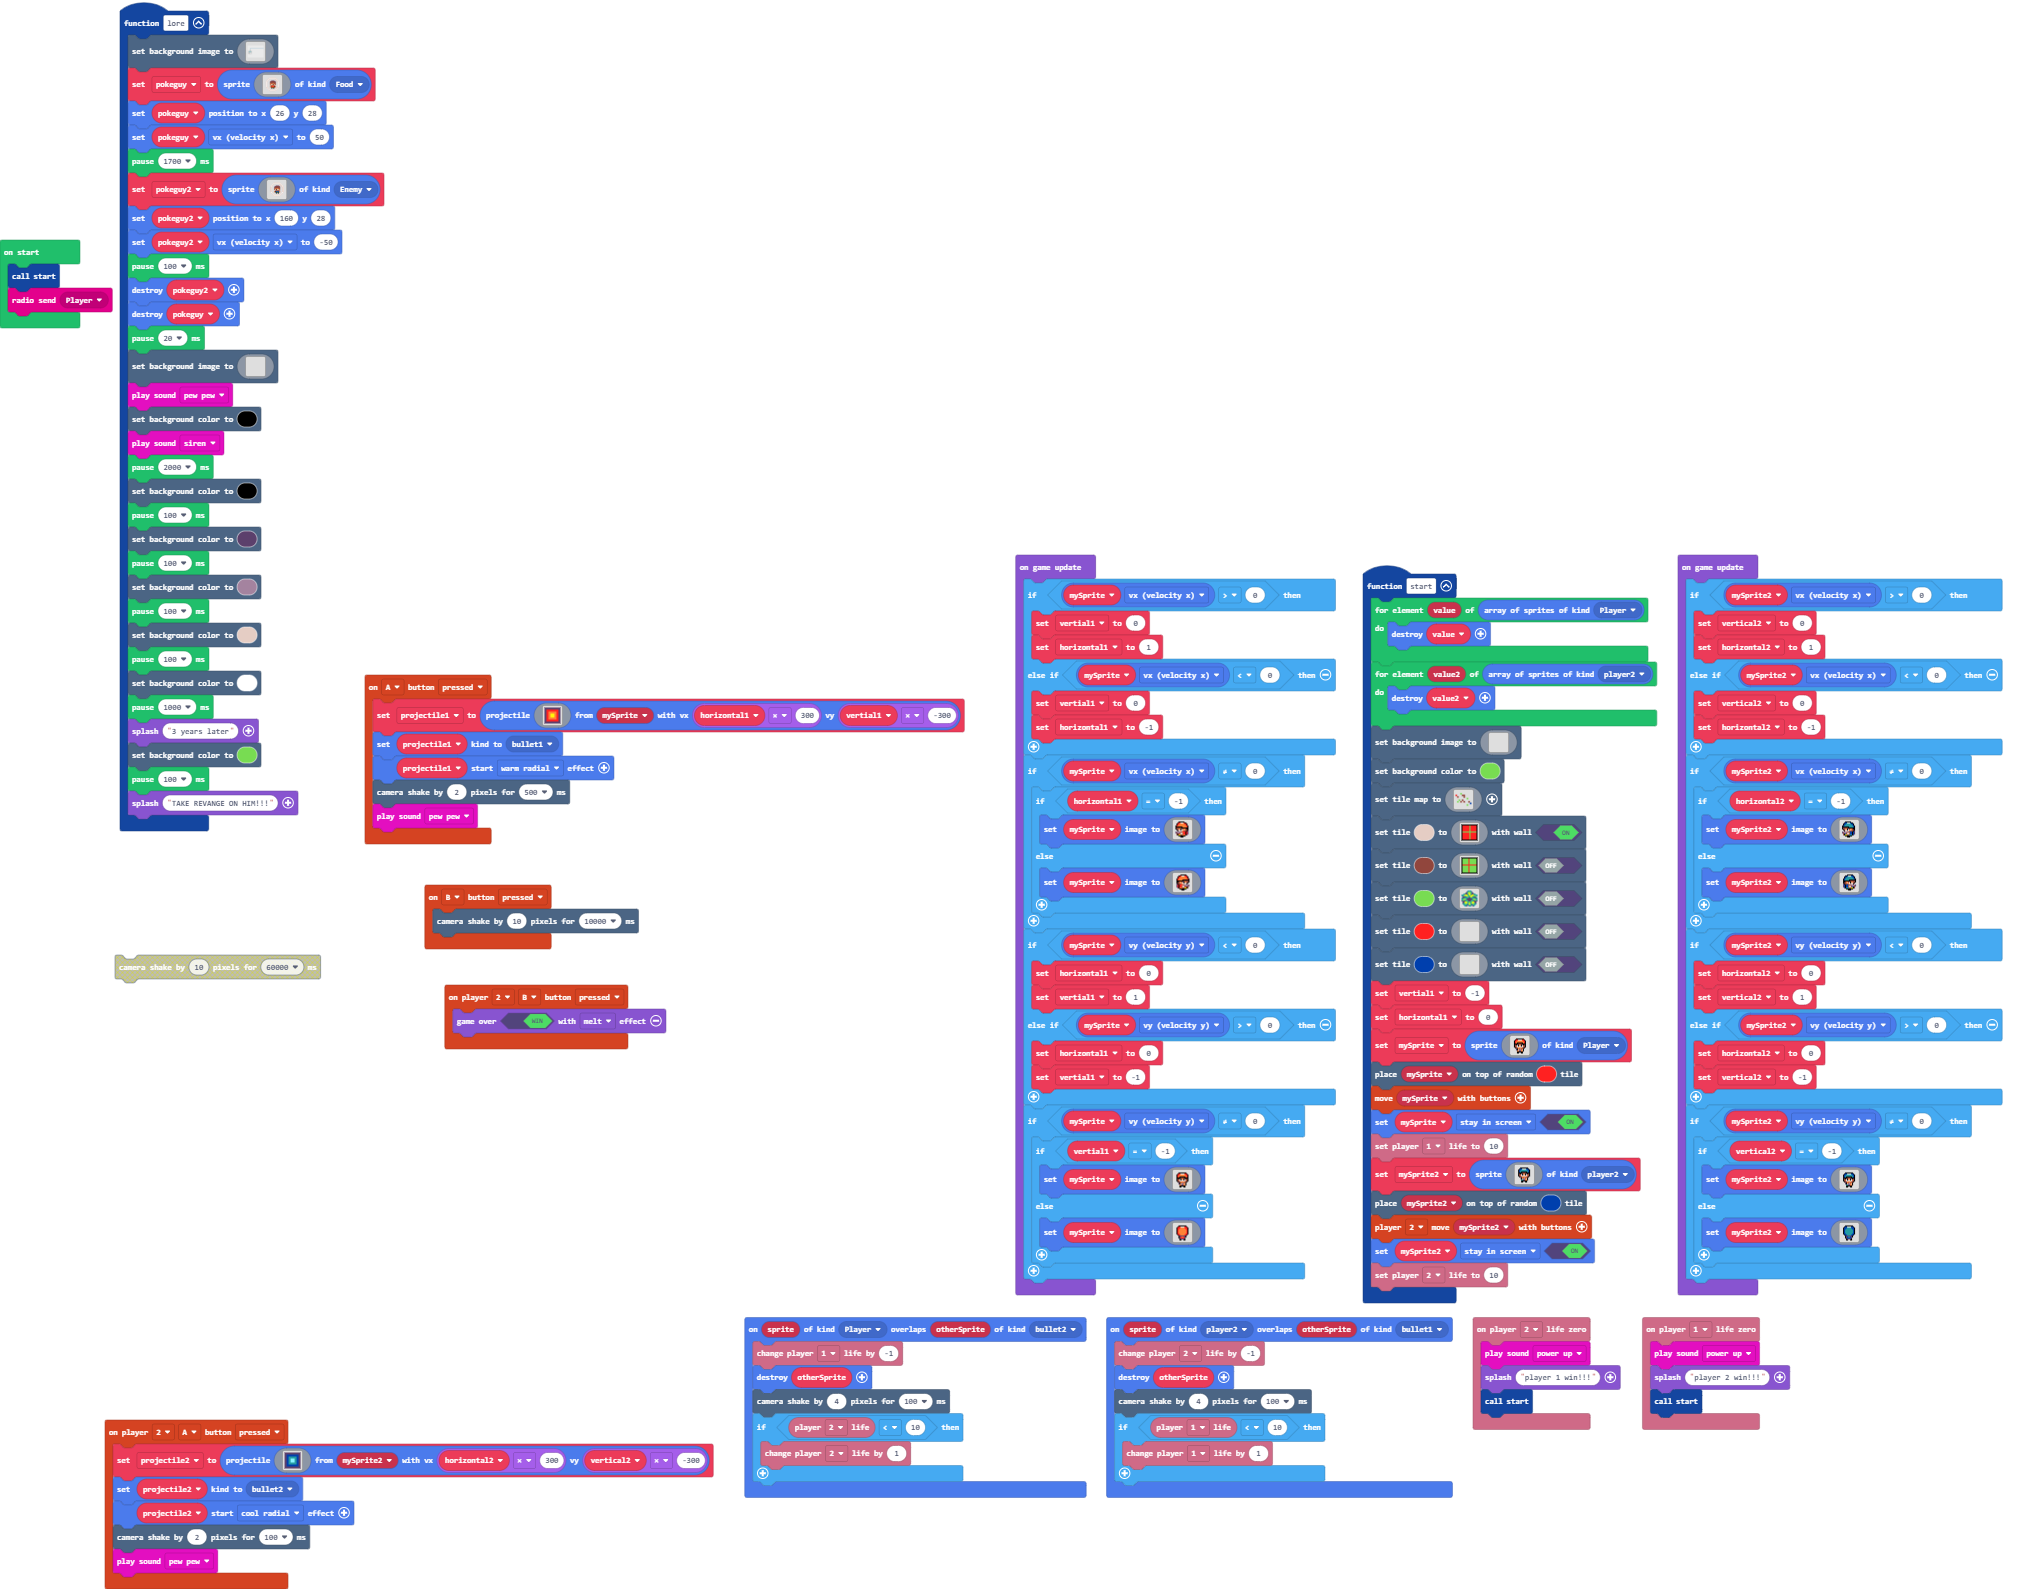
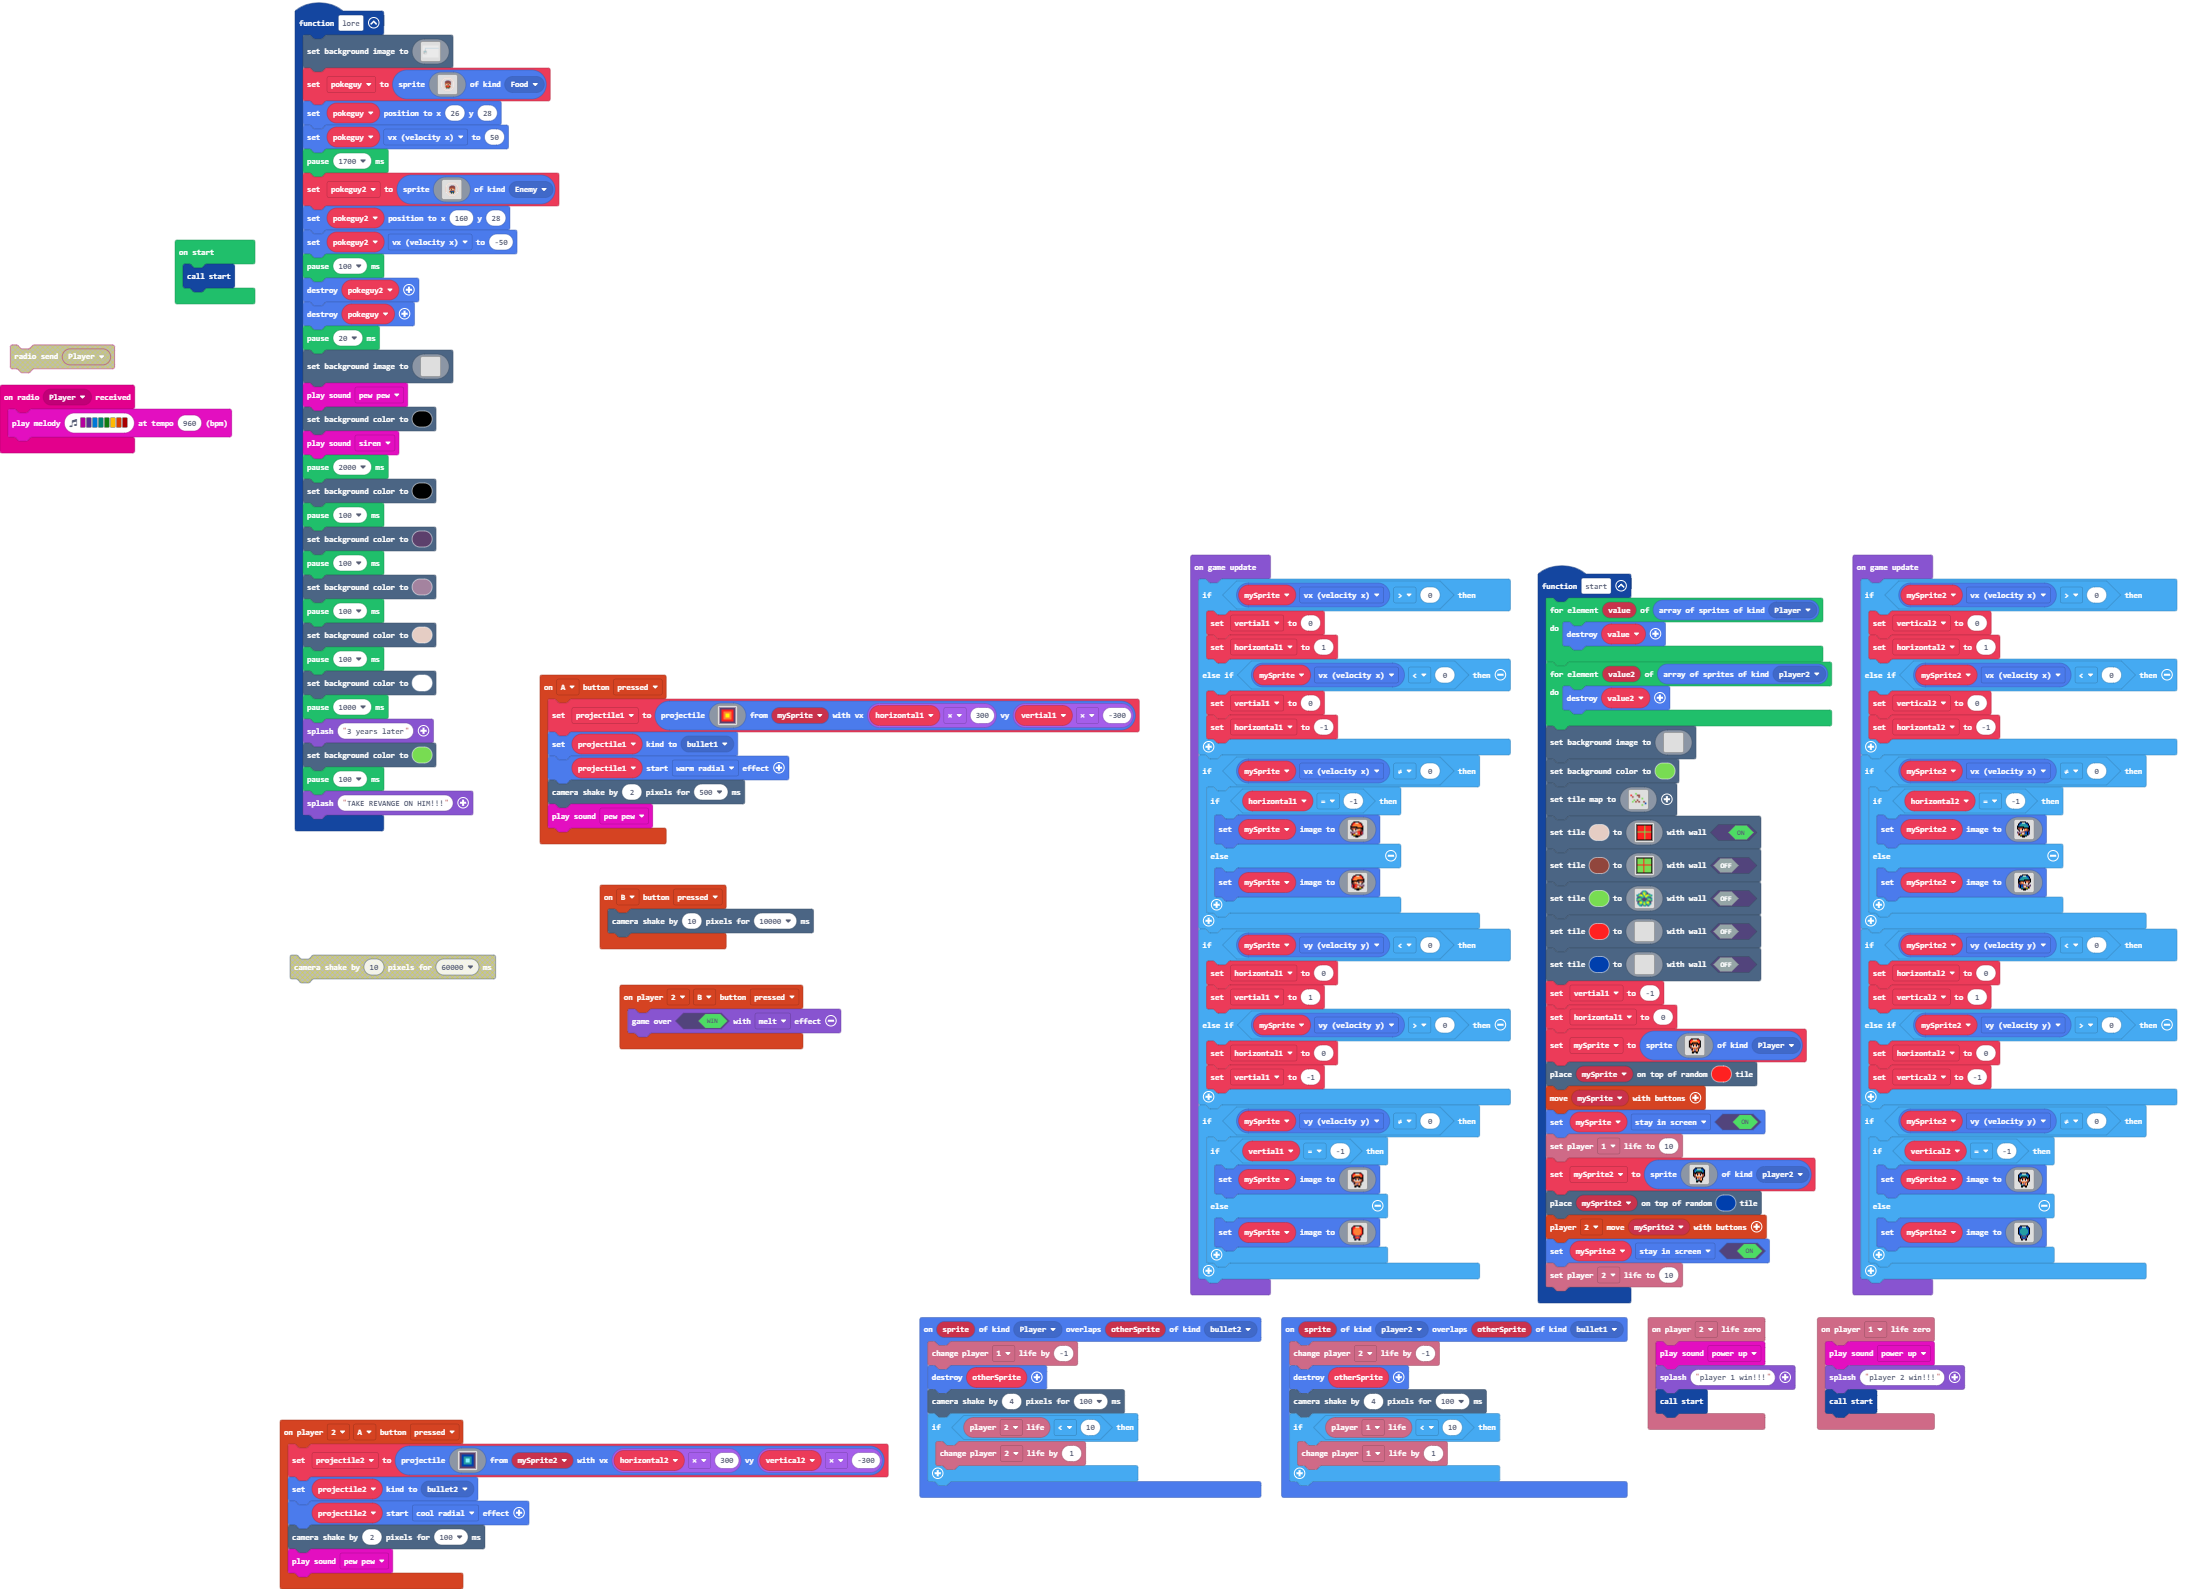
Update pxt.json, main.blocks, main.ts, tilemap.g.jres, tilemap.g.ts

Changed region(s): [[0.0, 0.0, 0.963, 1.0]]

diff --git a/main.ts b/main.ts
@@ -53,6 +53,9 @@ sprites.onOverlap(SpriteKind.Player, SpriteKind.bullet2, function (sprite, other
         info.player2.changeLifeBy(1)
     }
 })
+radio.onReceivedMessage(RadioMessage.Player, function () {
+    music.playMelody("C D E F G A B C5 ", 960)
+})
 sprites.onOverlap(SpriteKind.player2, SpriteKind.bullet1, function (sprite, otherSprite) {
     info.player2.changeLifeBy(-1)
     otherSprite.destroy()
@@ -700,7 +703,6 @@ let horizontal1 = 0
 let mySprite: Sprite = null
 let projectile1: Sprite = null
 start()
-radio.sendMessage(RadioMessage.Player)
 game.onUpdate(function () {
     if (mySprite.vx > 0) {
         vertial1 = 0

diff --git a/tilemap.g.ts b/tilemap.g.ts
@@ -1,0 +1,7 @@
+// Auto-generated code. Do not edit.
+namespace myTiles {
+    //% fixedInstance jres blockIdentity=images._tile
+    export const transparency16 = image.ofBuffer(hex``);
+
+}
+// Auto-generated code. Do not edit.
